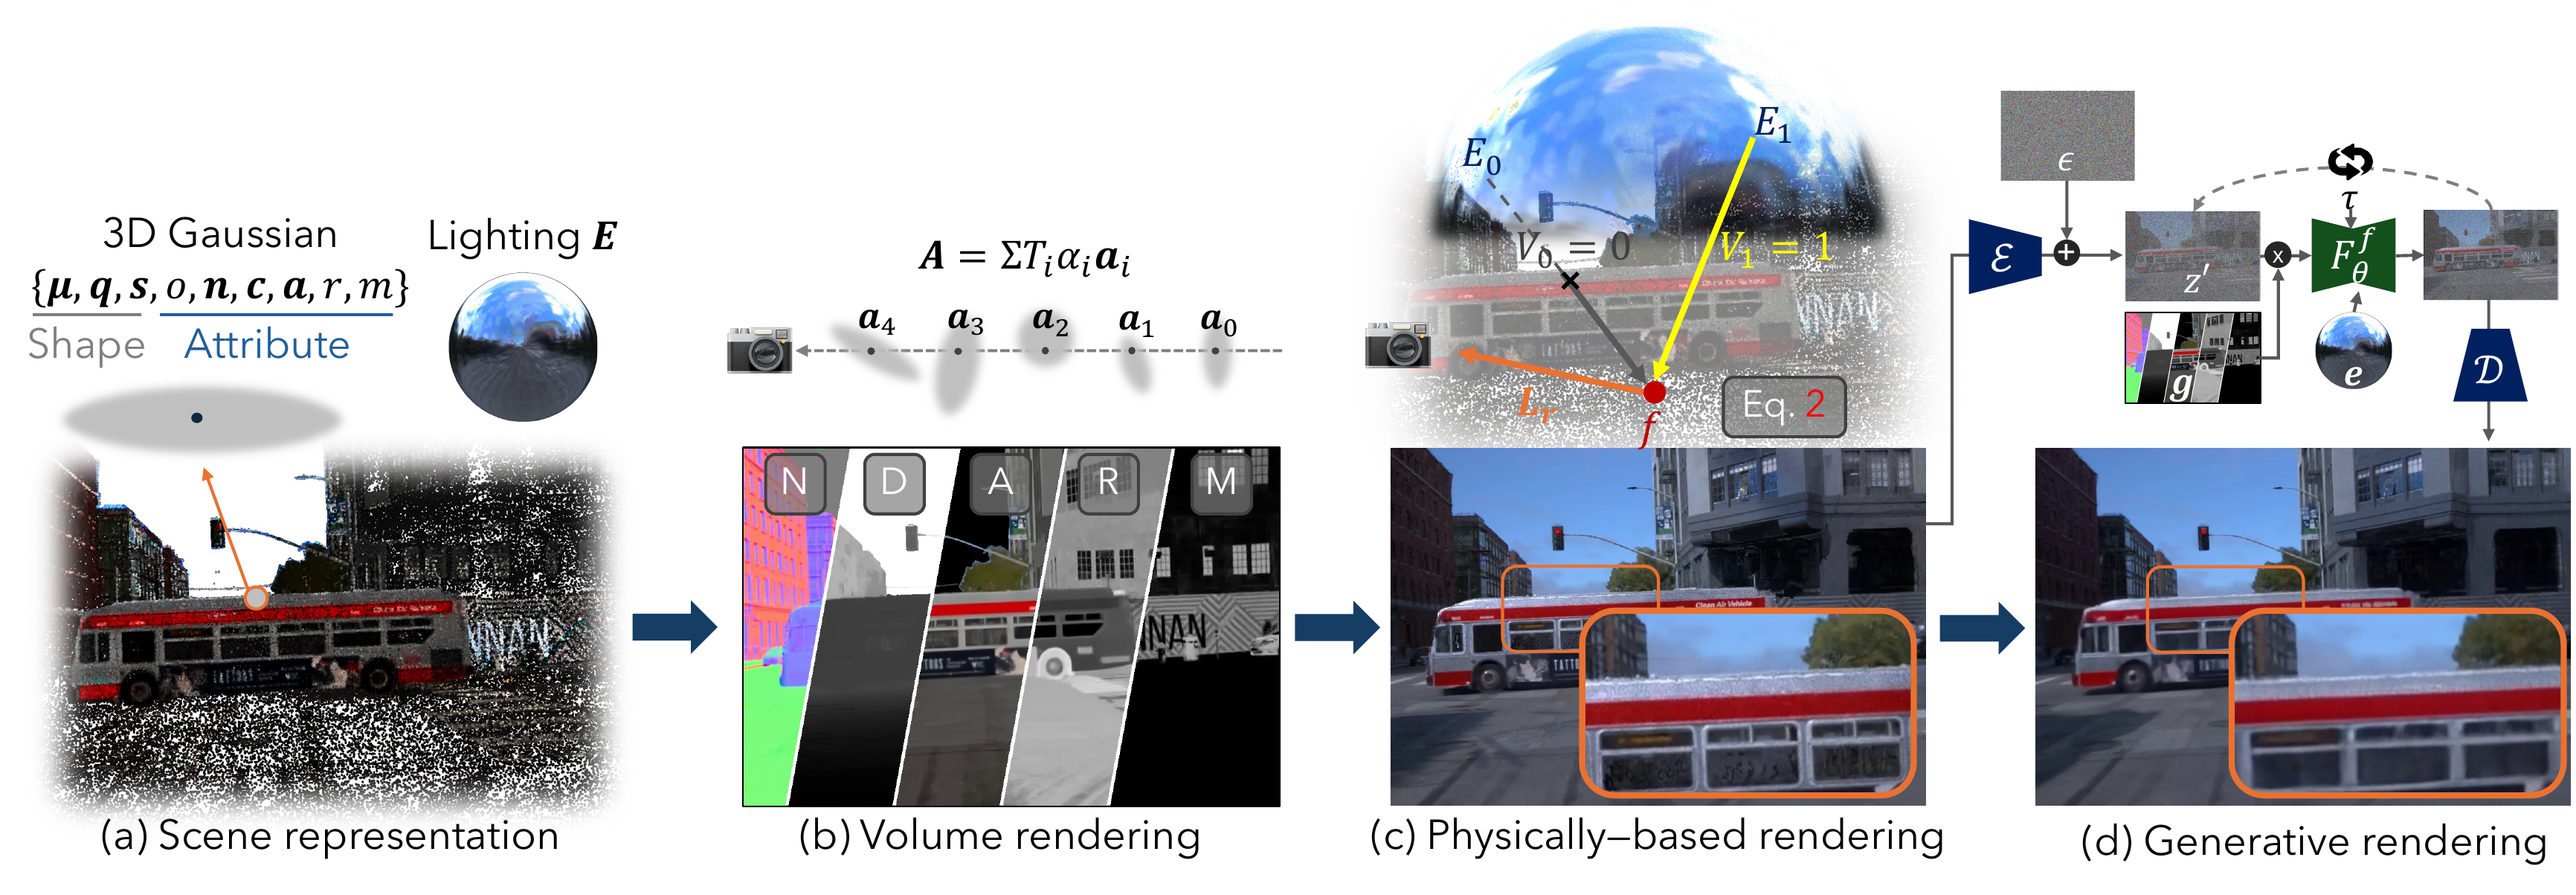
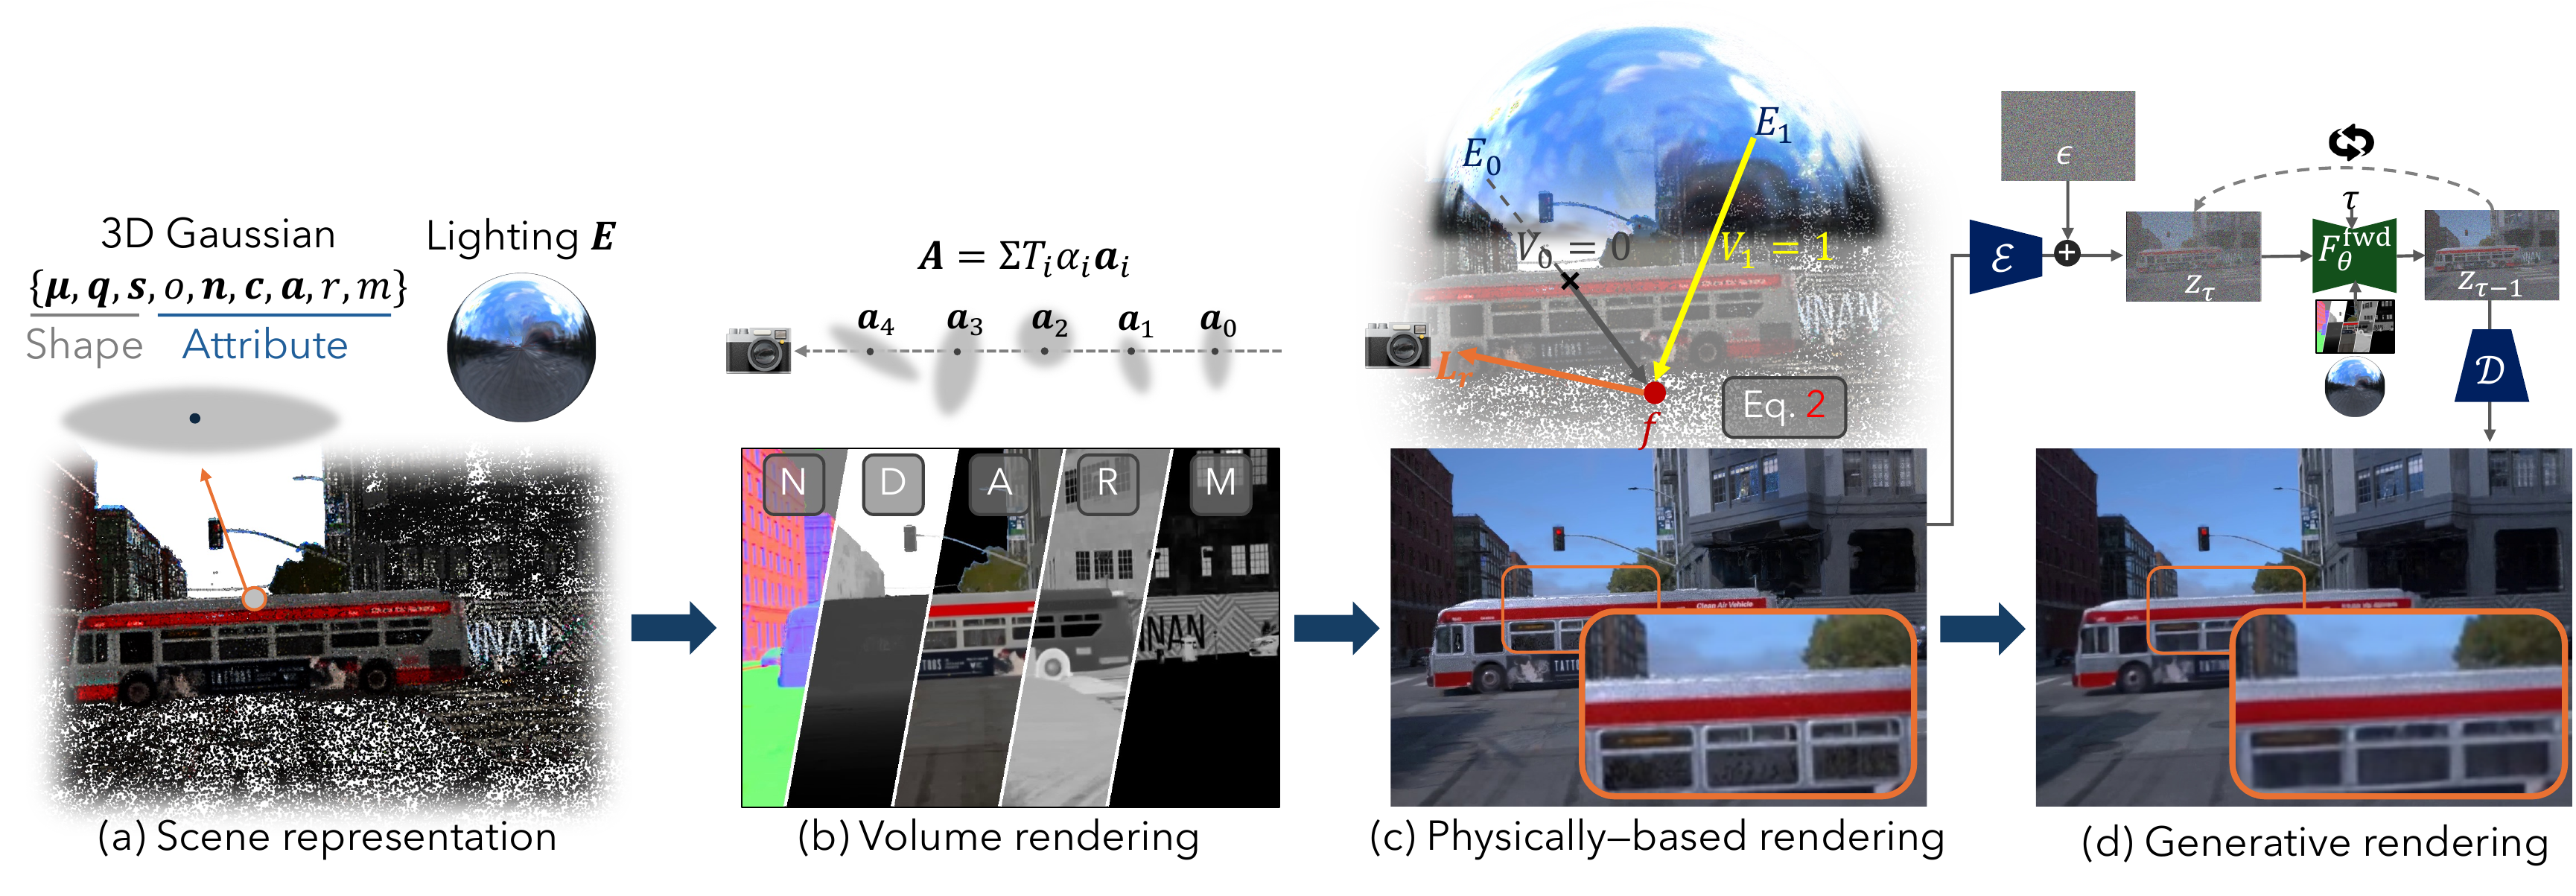
update figures, captions, and abstract

diff --git a/index.html b/index.html
@@ -153,14 +153,14 @@
         <h2 class="title is-3">Abstract</h2>
         <div class="content has-text-justified">
           <p>
-            Reconstructing urban scenes from casual videos is important for autonomous driving and AR/VR.
-            This involves solving highly ill-posed inverse rendering problems to decouple geometry, materials, and lighting.
-            Existing methods struggle with a trade-off: physically-based rendering (PBR) respects physical lighting but is prone to optimization artifacts, while generative models synthesize photorealistic images but lack explicit 3D constraints, failing to control lighting precisely.
-            In this paper, we present BRDFusion, a hybrid framework that combines the explicit control of physical models and the photorealism of generative models.
-            To achieve this, our rendering pipeline first renders physically accurate, though noisy, shading via Monte Carlo ray tracing.
-            We then inject this noisy output into a video diffusion model through a generative rendering pass.
-            This framework alleviates artifacts while preserving 3D consistency and physically-based lighting.
-            Experiments show that BRDFusion achieves state-of-the-art results for photorealistic relighting, night simulation, and virtual object insertion.
+            Inverse rendering of urban scenes from captured videos enables numerous applications, including content creation and autonomous driving simulation.
+            Physically-based rendering methods follow and control lighting physics, but suffer from reconstruction and rendering artifacts.
+            While generative models produce realistic videos, they offer limited consistency and controllability.
+            We present BRDFusion, a unified framework that combines two complementary models for inverse and forward rendering.
+            Specifically, BRDFusion recovers explicit, consistent scene properties with physical modeling and alleviates optimization ambiguity with generative priors.
+            During forward rendering, the physical model provides controllable rendering from the scene configuration, and the generative model denoises and fixes artifacts.
+            Therefore, our method produces high-quality videos while allowing precise control, outperforming baselines in real and synthetic scenes.
+            Moreover, BRDFusion supports novel-view relighting, night simulation, and dynamic object insertion/editing.
           </p>
         </div>
       </div>
@@ -178,14 +178,14 @@
             <img src="./static/images/rendering.png" alt="BRDFusion rendering pipeline diagram">
             <figcaption>
               <strong>Rendering.</strong>
-              We represent the scene with a 3DGS scene graph and HDR lighting. We first volume-render the G-buffer and perform PBR. Generative rendering is then applied to reduce rendering artifacts and improve rendering quality.
+              We represent the scene with a 3DGS scene graph and HDR lighting. We first volume-render the G-buffer and perform PBR rendering. Generative rendering is then applied to reduce rendering artifacts and improve rendering quality.
             </figcaption>
           </figure>
           <figure class="method-figure">
             <img src="./static/images/optimization.png" alt="BRDFusion optimization pipeline diagram">
             <figcaption>
               <strong>Optimization.</strong>
-              We adopt a staged approach to scene optimization. First, we optimize the scene using the volume-rendered color loss and regularize the rendered G-buffer with the DiffusionRenderer prior. Next, we fix the geometry and material and optimize the lighting using the PBR-rendered color loss. The lighting is also regularized by the DiffusionLight prior. We further refine the DiffusionRenderer prior to enhance its temporal consistency and subsequently improve reconstruction quality.
+              We adopt a staged approach to scene optimization. First, we optimize the scene using the volume-rendered color loss and regularize the rendered G-buffer with the DiffusionRenderer prior. Then, we refine the DiffusionRenderer prior to enhance its temporal consistency and perform volume-rendering optimization again to reconstruct a better scene. Next, we fix the geometry and material and optimize the lighting using the PBR-rendered color loss and the DiffusionLight regularization loss. Finally, we jointly refine the geometry, material, and lighting to improve overall visual fidelity.
             </figcaption>
           </figure>
         </div>